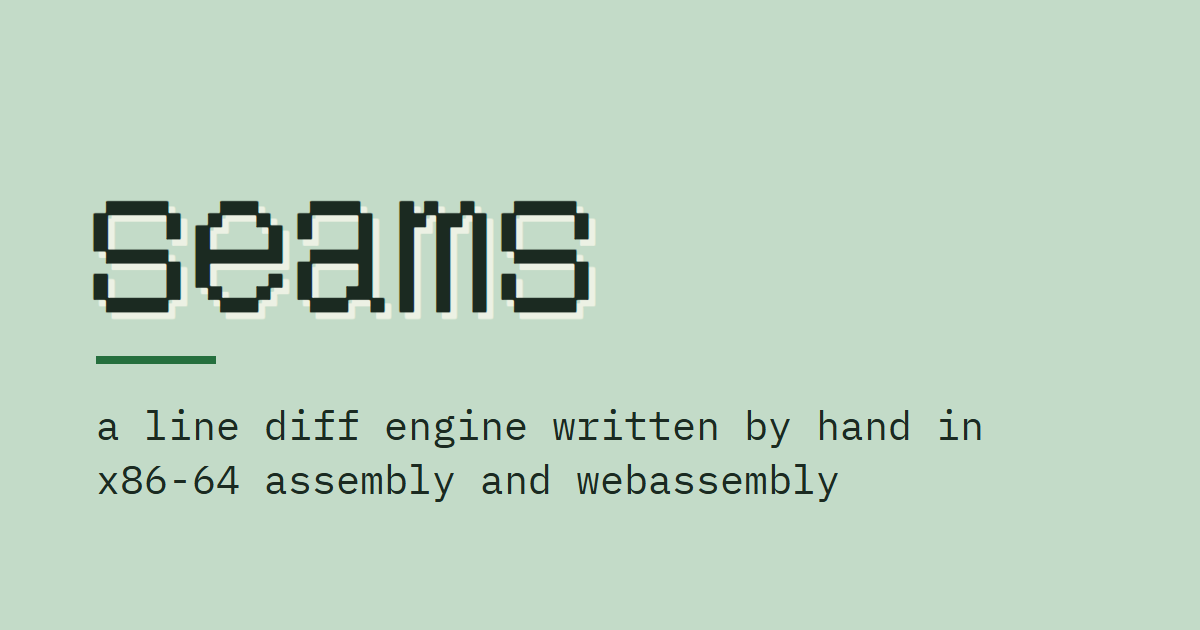
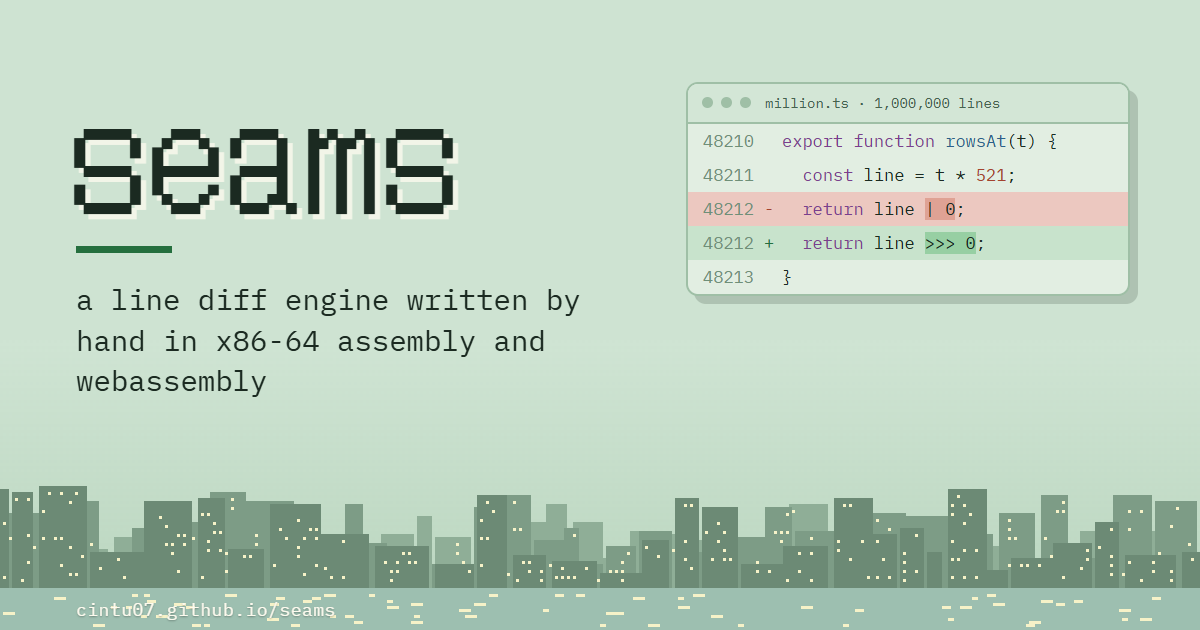
site: a link preview card with the city, a real diff and what seams is

diff --git a/site/share.html b/site/share.html
@@ -1,21 +1,58 @@
 <!doctype html>
-<!-- the link preview card: render at 1200x630 with node site/share.mjs -->
+<!-- the link preview card (1200x630): node site/share.mjs renders it to site/assets/share.png.
+     serve the repo root, since it draws the site's own skyline from web/look.mjs -->
 <html>
 <head>
 <meta charset="utf-8">
 <style>
 @font-face { font-family: "Plex"; src: url("fonts/ibm-plex-mono-400.woff2"); font-weight: 400; }
+@font-face { font-family: "Plex"; src: url("fonts/ibm-plex-mono-500.woff2"); font-weight: 500; }
 @font-face { font-family: "Dot"; src: url("fonts/dotgothic16-400.woff2"); }
 html, body { margin: 0; width: 1200px; height: 630px; overflow: hidden; }
-body { background: #c3dbc8; color: #1b2a21; display: flex; flex-direction: column; justify-content: center; padding: 0 96px; box-sizing: border-box; }
-h1 { font: 400 196px/1 "Dot", monospace; margin: 0 0 36px -8px; letter-spacing: 4px; text-shadow: 6px 6px 0 rgba(253, 251, 239, 0.7); }
-p { font: 400 40px/1.35 "Plex", monospace; margin: 0; max-width: 980px; color: #1b2a21; }
-.rule { width: 120px; height: 8px; background: #256f3e; margin: 0 0 34px; }
+body { background: #c3dbc8; color: #1b2a21; position: relative; font-family: Plex, monospace; }
+#city { position: absolute; left: 0; right: 0; bottom: 0; width: 1200px; height: 290px; image-rendering: pixelated; }
+.words { position: absolute; left: 76px; top: 70px; width: 560px; }
+h1 { font: 400 150px/1 "Dot", monospace; margin: 0 0 26px -6px; letter-spacing: 3px; text-shadow: 5px 5px 0 rgba(253, 251, 239, 0.75); }
+.rule { width: 96px; height: 7px; background: #256f3e; margin: 0 0 26px; }
+p { font-size: 29px; line-height: 1.4; margin: 0; }
+.diff { position: absolute; right: 70px; top: 82px; width: 440px; background: #e2eee2; border: 2px solid #9fbfa6; border-radius: 12px;
+  box-shadow: 8px 8px 0 rgba(27, 42, 33, 0.18); font-size: 17px; line-height: 34px; overflow: hidden; }
+.bar { display: flex; gap: 8px; padding: 10px 14px; border-bottom: 2px solid #9fbfa6; background: #d3e6d6; font-size: 14px; color: #45624e; line-height: 18px; }
+.bar i { width: 11px; height: 11px; border-radius: 50%; background: #9fbfa6; display: inline-block; margin-top: 3px; }
+.bar span { margin-left: 6px; }
+.row { display: flex; white-space: pre; padding-right: 12px; }
+.n { width: 66px; text-align: right; padding-right: 10px; color: #6f8f78; flex: none; }
+.m { width: 18px; flex: none; }
+.del { background: #ecc8c0; } .del .m { color: #a4432e; }
+.ins { background: #c8e3cc; } .ins .m { color: #256f3e; }
+.del b { background: #dfa294; font-weight: 400; } .ins b { background: #97cfa3; font-weight: 400; }
+.kw { color: #7a3f8e; } .fn { color: #2c5f8a; } .num { color: #a4432e; }
+.foot { position: absolute; left: 76px; bottom: 9px; font-size: 18px; color: #fdfbef; text-shadow: 0 1px 2px rgba(0,0,0,.35); letter-spacing: .5px; }
 </style>
 </head>
 <body>
+<canvas id="city"></canvas>
+<div class="words">
   <h1>seams</h1>
   <div class="rule"></div>
   <p>a line diff engine written by hand in x86-64 assembly and webassembly</p>
+</div>
+<div class="diff">
+  <div class="bar"><i></i><i></i><i></i><span>million.ts · 1,000,000 lines</span></div>
+  <div class="row"><span class="n">48210</span><span class="m"> </span><span><span class="kw">export function</span> <span class="fn">rowsAt</span>(t) {</span></div>
+  <div class="row"><span class="n">48211</span><span class="m"> </span><span>  <span class="kw">const</span> line = t * <span class="num">521</span>;</span></div>
+  <div class="row del"><span class="n">48212</span><span class="m">-</span><span>  <span class="kw">return</span> line <b>| 0</b>;</span></div>
+  <div class="row ins"><span class="n">48212</span><span class="m">+</span><span>  <span class="kw">return</span> line <b>&gt;&gt;&gt; 0</b>;</span></div>
+  <div class="row"><span class="n">48213</span><span class="m"> </span><span>}</span></div>
+</div>
+<div class="foot">cintu07.github.io/seams</div>
+<script type="module">
+import { THEMES, drawSkyline } from '../web/look.mjs';
+drawSkyline(document.getElementById('city'), THEMES.sage, 11);
+// the card above the city takes the sky's own top colour, so the canvas edge disappears
+const [r, g, b] = document.getElementById('city').getContext('2d').getImageData(0, 0, 1, 1).data;
+document.body.style.background = `rgb(${r}, ${g}, ${b})`;
+document.fonts.ready.then(() => { window.ready = true; });
+</script>
 </body>
 </html>

diff --git a/site/index.html b/site/index.html
@@ -9,6 +9,10 @@
 <meta property="og:title" content="seams">
 <meta property="og:description" content="A diff viewer for files too big for everything else: a million lines in a fifth of a second, scrolled at your screen's refresh rate.">
 <meta property="og:image" content="https://cintu07.github.io/seams/assets/share.png">
+<meta property="og:image:width" content="1200">
+<meta property="og:image:height" content="630">
+<meta property="og:image:alt" content="seams, a line diff engine written by hand in x86-64 assembly and webassembly">
+<meta name="twitter:image" content="https://cintu07.github.io/seams/assets/share.png">
 <meta name="twitter:card" content="summary_large_image">
 <link rel="icon" href="assets/icon.svg">
 <link rel="preload" href="fonts/dotgothic16-400.woff2" as="font" type="font/woff2" crossorigin>
